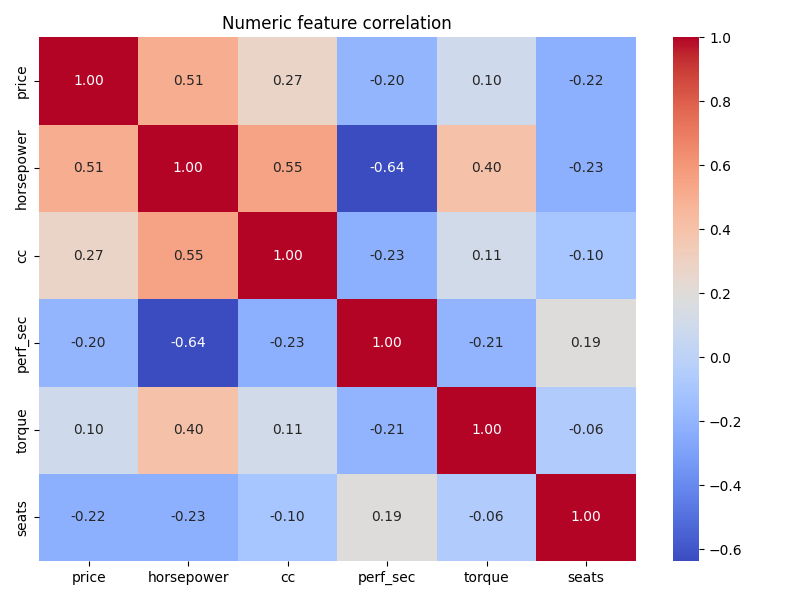
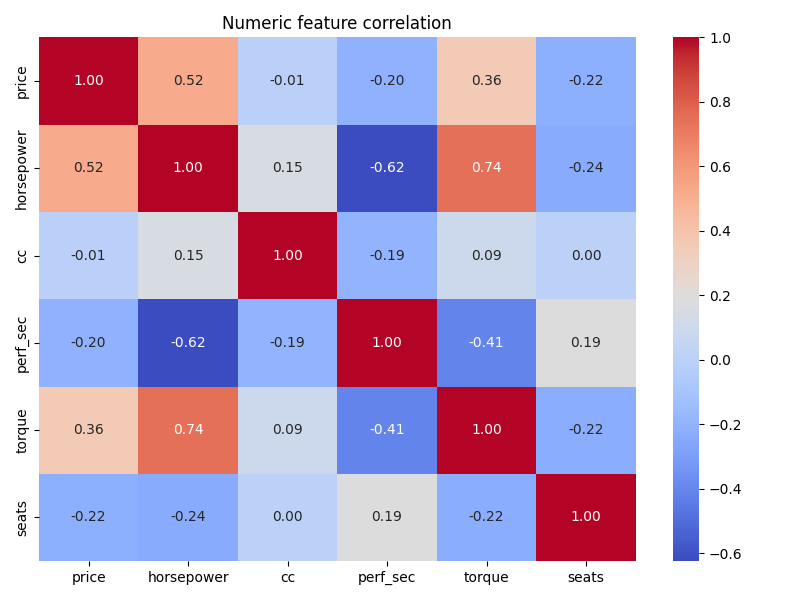
updated visuals
updated visuals

diff --git a/src/personal_project/cleaning.py b/src/personal_project/cleaning.py
@@ -1,0 +1,96 @@
+from pathlib import Path
+import re
+import numpy as np
+
+
+def _num_with_suffix_to_float(s: str) -> float:
+    """Convert a numeric string with optional k/M suffix to float.
+
+    Examples:
+    - '1.2k' -> 1200.0
+    - '3M' -> 3000000.0
+    - '500' -> 500.0
+    """
+    if not isinstance(s, str):
+        return np.nan
+    s = s.strip()
+    if s == "":
+        return np.nan
+    m = re.match(r"^([0-9]*\.?[0-9]+)\s*([kKmM]?)$", s)
+    if not m:
+        try:
+            return float(s)
+        except Exception:
+            return np.nan
+    num = float(m.group(1))
+    suf = m.group(2).lower()
+    if suf == 'k':
+        num *= 1_000
+    elif suf == 'm':
+        num *= 1_000_000
+    return num
+
+
+def parse_price(s: str) -> float:
+    """Parse a price string into a float USD-equivalent (best-effort).
+
+    - Handles commas and $ signs
+    - Handles ranges like "$12,000-$15,000" by returning the midpoint
+    - Handles shorthand suffixes like 'k' and 'M'
+    - Returns numpy.nan on failure
+    """
+    if not isinstance(s, str):
+        return np.nan
+    s = s.strip()
+    if s == "":
+        return np.nan
+
+    # remove common currency symbols but keep digits, dots, minus and suffix letters
+    s_clean = re.sub(r"[,\$£€]", "", s)
+
+    # If range separated by '-', try to parse endpoints
+    if '-' in s_clean:
+        parts = [p.strip() for p in s_clean.split('-') if p.strip() != ""]
+        vals = []
+        for p in parts:
+            # extract first token that looks like a number with optional suffix
+            m = re.search(r"([0-9]*\.?[0-9]+\s*[kKmM]?)", p)
+            if m:
+                vals.append(_num_with_suffix_to_float(m.group(1).replace(' ', '')))
+        if vals:
+            return float(sum(vals) / len(vals))
+        return np.nan
+
+    # otherwise extract first numeric token (with optional suffix)
+    m = re.search(r"([0-9]*\.?[0-9]+\s*[kKmM]?)", s_clean)
+    if not m:
+        return np.nan
+    return float(_num_with_suffix_to_float(m.group(1).replace(' ', '')))
+
+
+def extract_number(s: str) -> float:
+    """Extract numeric value(s) from a string and return their mean.
+
+    Handles numbers with commas and optional k/M suffixes. If no numeric
+    content is found returns np.nan.
+    """
+    if not isinstance(s, str):
+        return np.nan
+    s = s.strip()
+    if s == "":
+        return np.nan
+
+    # remove commas
+    s_no_comma = s.replace(',', ' ')
+    # find all numeric tokens possibly with k/M suffix
+    matches = re.findall(r"([0-9]*\.?[0-9]+\s*[kKmM]?)", s_no_comma)
+    if not matches:
+        return np.nan
+    vals = []
+    for tok in matches:
+        v = _num_with_suffix_to_float(tok.replace(' ', ''))
+        if not np.isnan(v):
+            vals.append(v)
+    if not vals:
+        return np.nan
+    return float(sum(vals) / len(vals))

diff --git a/src/personal_project/eda_cars.py b/src/personal_project/eda_cars.py
@@ -17,6 +17,18 @@ import pandas as pd
 import matplotlib.pyplot as plt
 import seaborn as sns
 from matplotlib.ticker import FuncFormatter
+try:
+    from personal_project.cleaning import parse_price, extract_number
+except Exception:
+    # Support running this file directly (python src/personal_project/eda_cars.py)
+    # by loading the cleaning module from the same directory.
+    import importlib.util, sys
+    p = Path(__file__).resolve().parent / 'cleaning.py'
+    spec = importlib.util.spec_from_file_location('personal_project.cleaning', str(p))
+    mod = importlib.util.module_from_spec(spec)
+    spec.loader.exec_module(mod)
+    parse_price = mod.parse_price
+    extract_number = mod.extract_number
 
 
 DATA_PATH = Path(__file__).resolve().parents[2] / "data" / "Cars Datasets 2025.csv"
@@ -24,33 +36,7 @@ OUT_DIR = Path(__file__).resolve().parents[2] / "reports" / "figures"
 OUT_DIR.mkdir(parents=True, exist_ok=True)
 
 
-def extract_number(s: str):
-    if not isinstance(s, str):
-        return np.nan
-    s = s.replace(',', '')
-    m = re.findall(r"[-+]?[0-9]*\.?[0-9]+", s)
-    if not m:
-        return np.nan
-    nums = [float(x) for x in m]
-    return sum(nums) / len(nums)
-
-
-def parse_price(s: str):
-    if not isinstance(s, str):
-        return np.nan
-    s = s.replace(',', '').strip()
-    s = re.sub(r"[^0-9\-\.\s]", "", s)
-    if '-' in s:
-        parts = [p for p in s.split('-') if p.strip() != ""]
-        try:
-            nums = [float(p) for p in parts]
-            return sum(nums) / len(nums)
-        except Exception:
-            return np.nan
-    try:
-        return float(s)
-    except Exception:
-        return np.nan
+# parsing functions are provided by personal_project.cleaning
 
 
 def load_clean():

diff --git a/src/personal_project/ml_pipeline.py b/src/personal_project/ml_pipeline.py
@@ -1,8 +1,18 @@
 from pathlib import Path
-import re
 import joblib
 import numpy as np
 import pandas as pd
+try:
+    from personal_project.cleaning import parse_price, extract_number
+except Exception:
+    # when run as a script from src/..., package import may fail; load via file
+    import importlib.util, sys
+    p = Path(__file__).resolve().parent / 'cleaning.py'
+    spec = importlib.util.spec_from_file_location('personal_project.cleaning', str(p))
+    mod = importlib.util.module_from_spec(spec)
+    spec.loader.exec_module(mod)
+    parse_price = mod.parse_price
+    extract_number = mod.extract_number
 
 from sklearn.model_selection import train_test_split, cross_val_score
 from sklearn.pipeline import make_pipeline
@@ -17,33 +27,8 @@ MODEL_OUT = Path(__file__).resolve().parents[2] / "models"
 MODEL_OUT.mkdir(parents=True, exist_ok=True)
 
 
-def parse_price(s: str):
-    if not isinstance(s, str):
-        return np.nan
-    s = s.replace(',', '').strip()
-    s = re.sub(r"[^0-9\-\.\s]", "", s)
-    if '-' in s:
-        parts = [p for p in s.split('-') if p.strip() != ""]
-        try:
-            nums = [float(p) for p in parts]
-            return sum(nums) / len(nums)
-        except Exception:
-            return np.nan
-    try:
-        return float(s)
-    except Exception:
-        return np.nan
 
-
-def extract_number(s: str):
-    if not isinstance(s, str):
-        return np.nan
-    s = s.replace(',', '')
-    m = re.findall(r"[-+]?[0-9]*\.?[0-9]+", s)
-    if not m:
-        return np.nan
-    nums = [float(x) for x in m]
-    return sum(nums) / len(nums)
+# Use shared cleaning helpers from personal_project.cleaning
 
 
 def load_and_clean(path=DATA_PATH):
